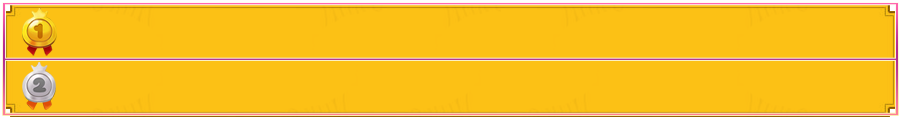
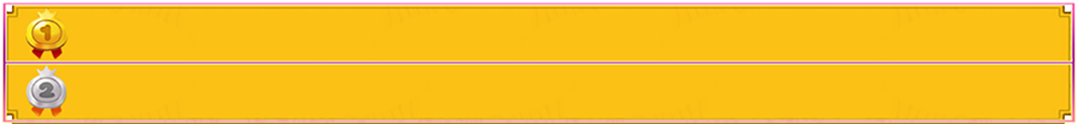
fix

Changed region(s): [[0.0, 0.0, 1.0, 0.9915]]

diff --git a/src/containers/lucky_rotation/css/style.css b/src/containers/lucky_rotation/css/style.css
@@ -66,7 +66,7 @@ font-style:normal;
 .card {border: none !important; background-color: transparent;}
 .tbl-bvd {width: 901px; height: 190px;}
 .title-bvd {font-size: 26px; color:#282652}
-.top-12 {background-image:url(../images/bg-bangvinhdanh.png); background-position: center; background-repeat: no-repeat; background-size: 101%;}
+.top-12 {background-image:url(../images/bg-bangvinhdanh.png); background-repeat: no-repeat;}
 .top-12 tr td {vertical-align: middle; font-size: 22px}
 .top100 tr td {vertical-align: middle; font-size: 22px; border: solid 2px #005faf}
 .pag-custom .page-item {margin: 5px;}
